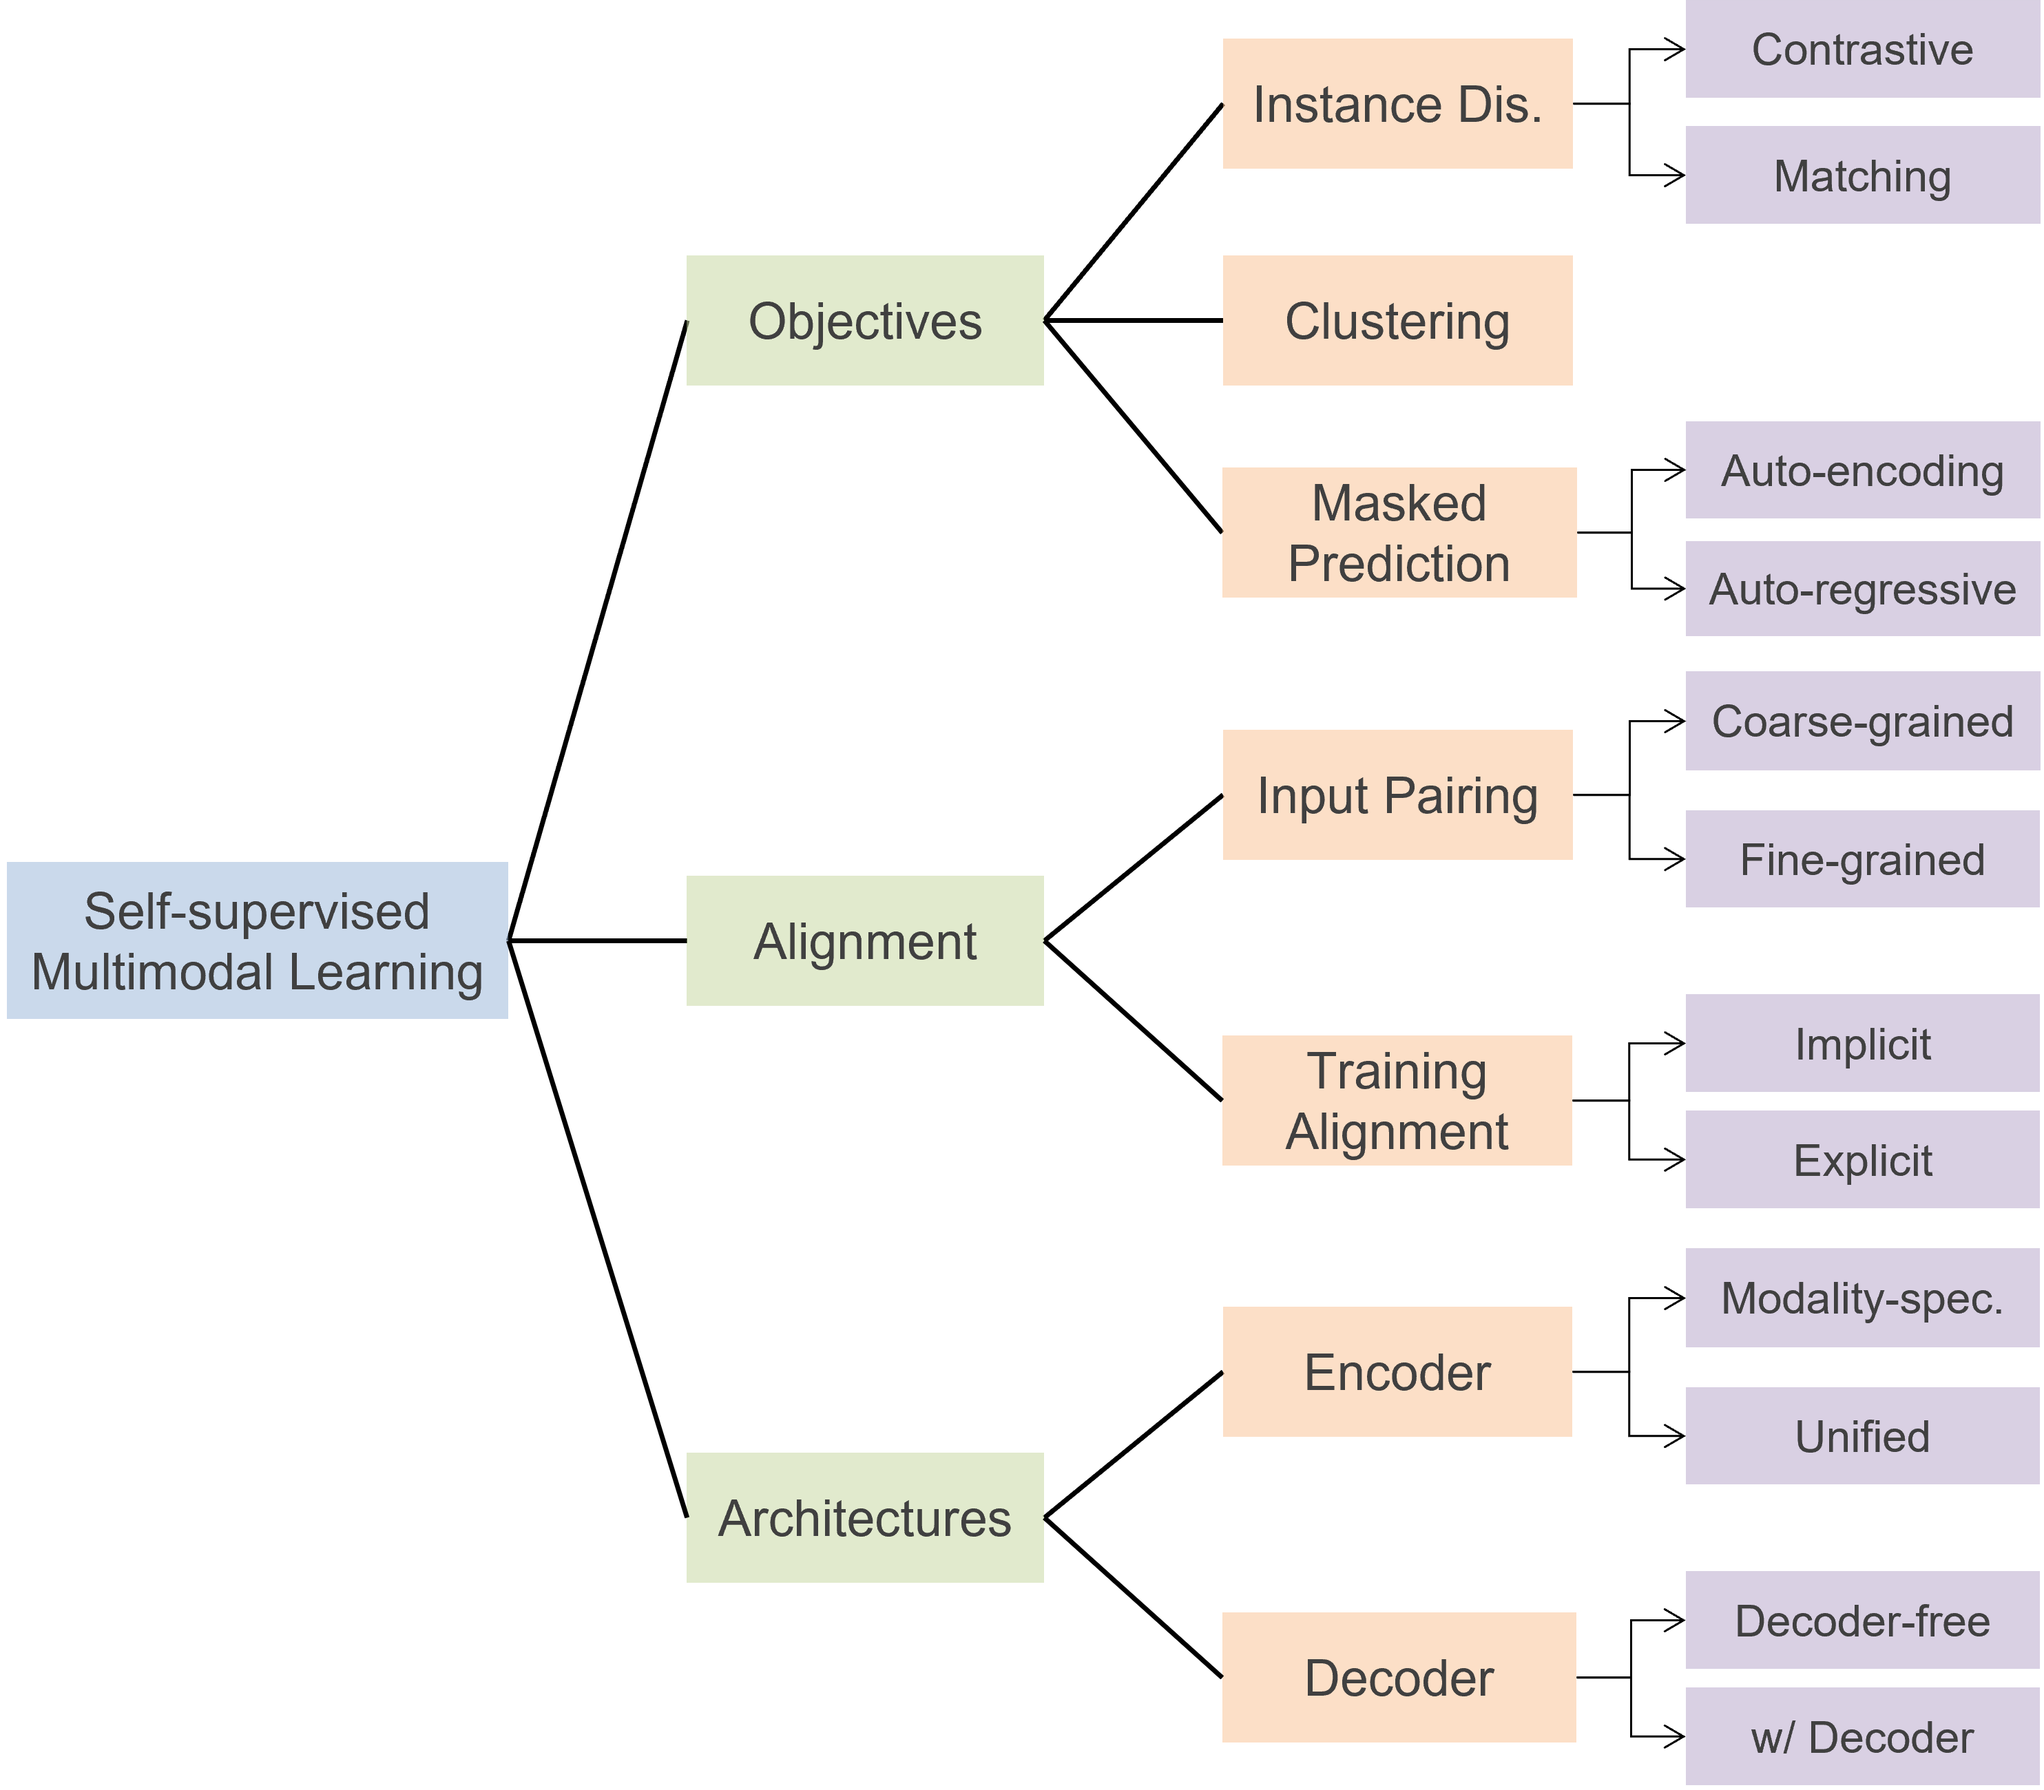
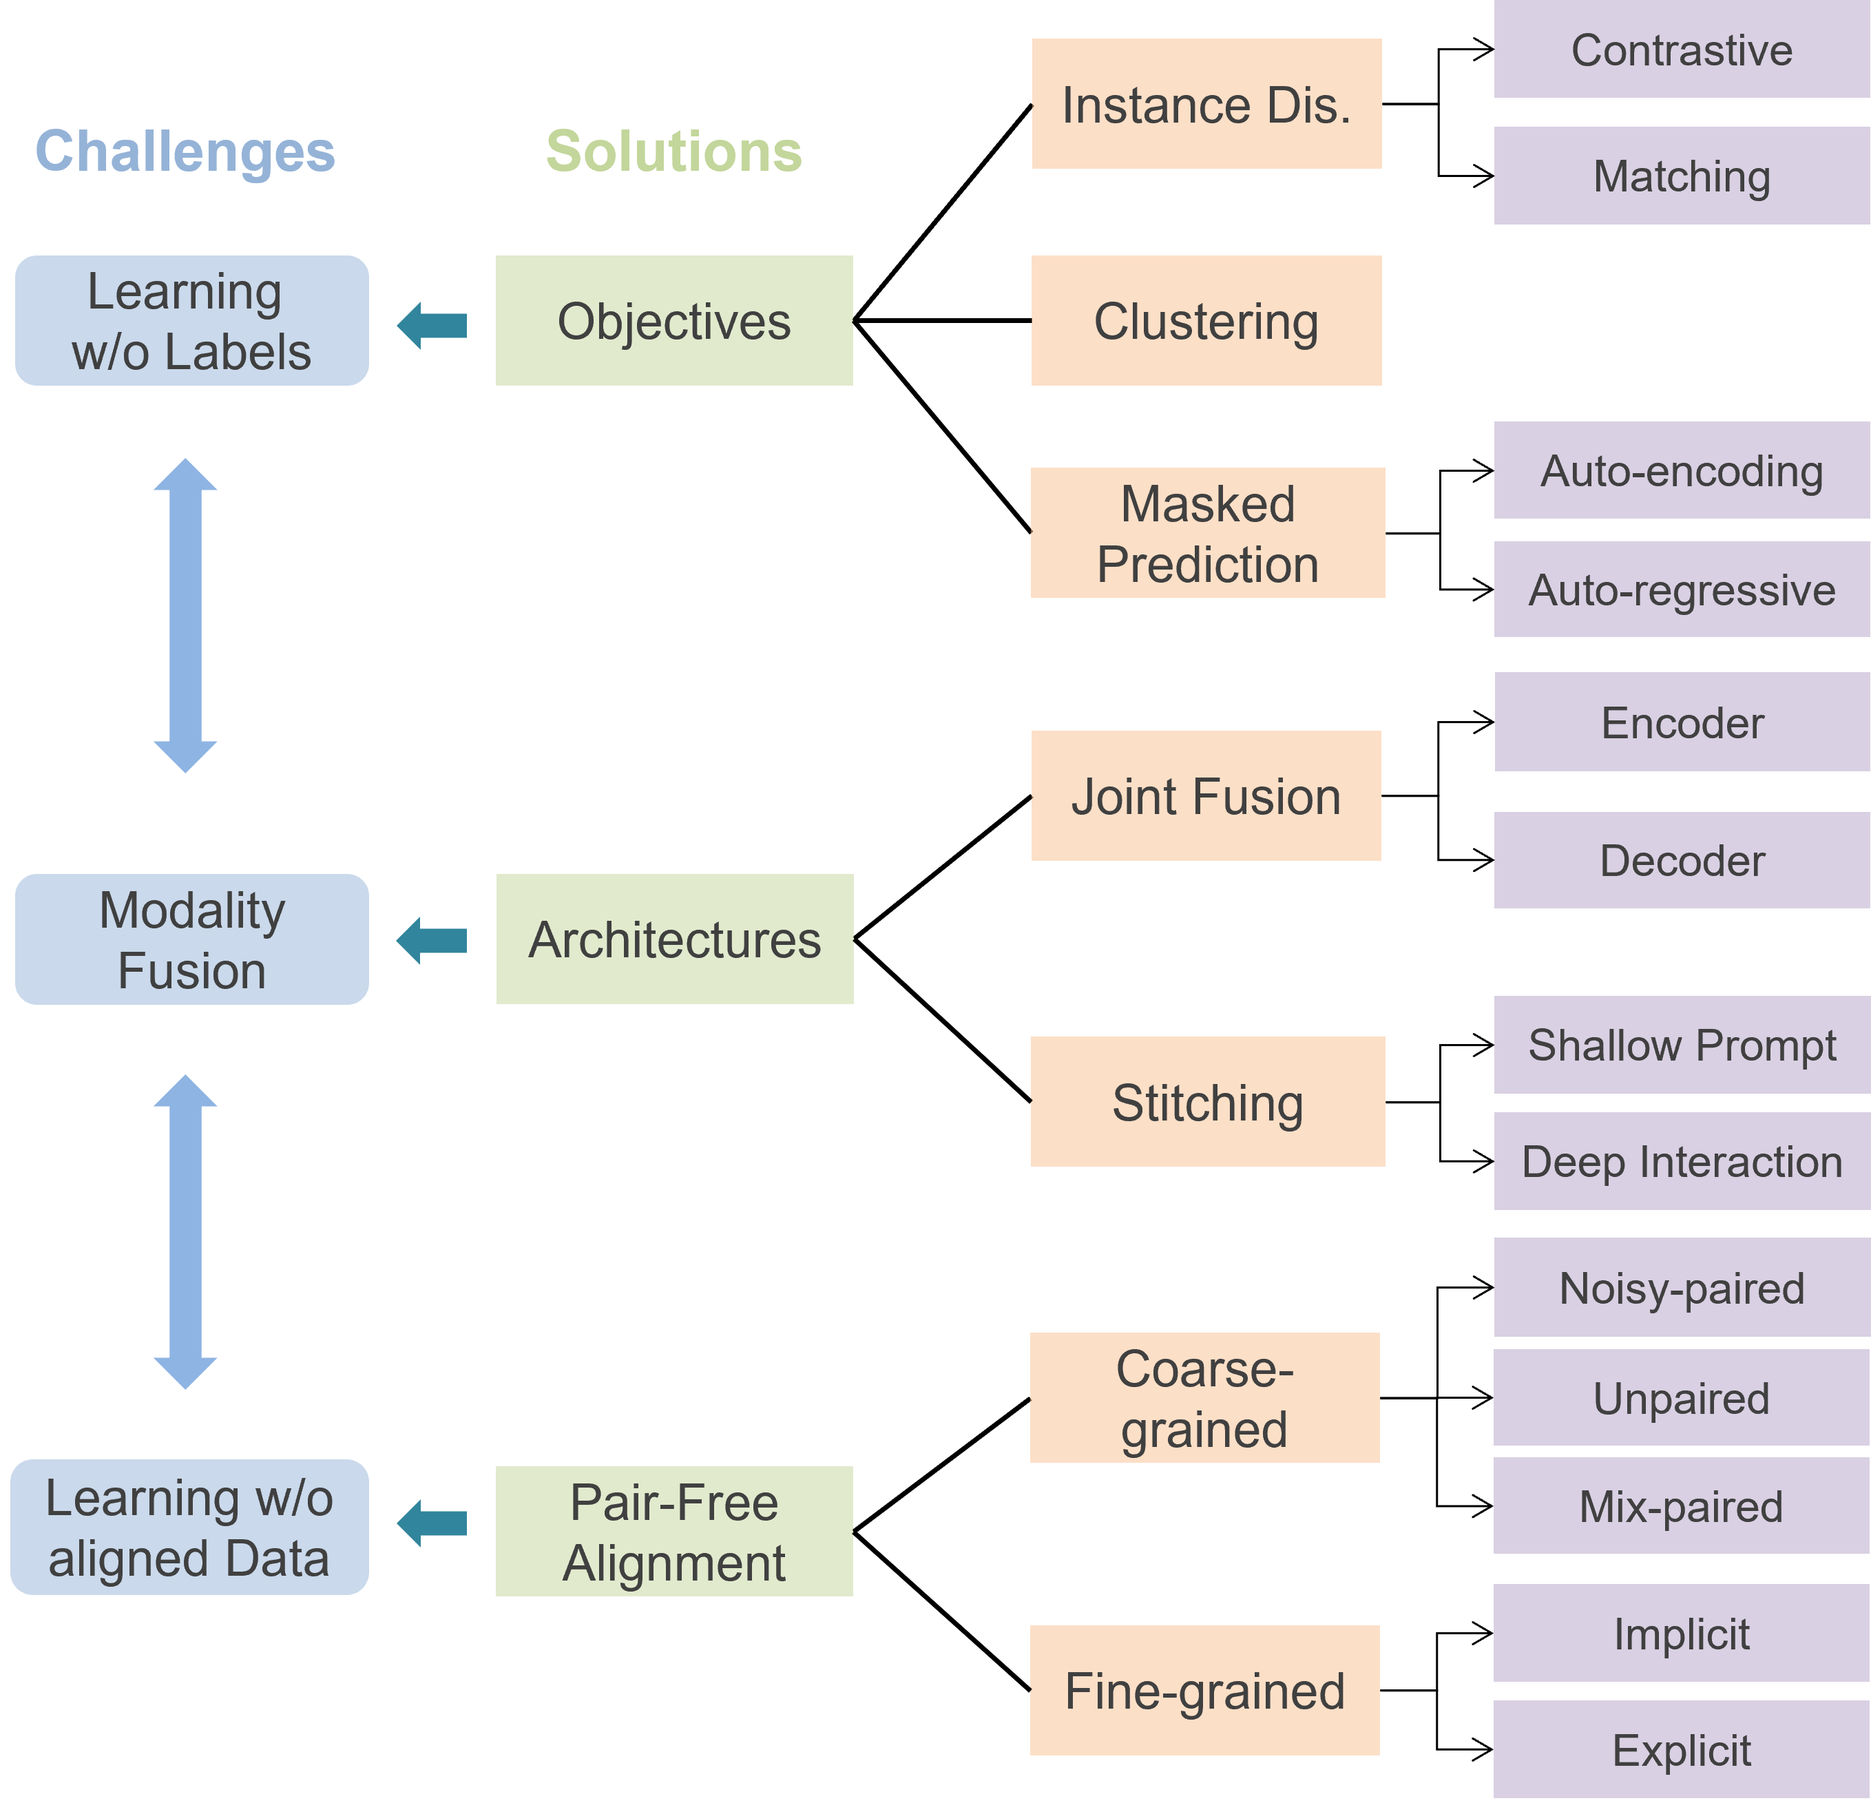
update taxonomy

diff --git a/README.md b/README.md
@@ -37,14 +37,13 @@ A curated list of awesome self-supervised multimodal learning resources. Check o
   - [Point Cloud Datasets](#point-cloud-datasets)
 
 ## Overview
-**Taxonomy**: In our survey, we provide a comprehensive review of the state-of-the-art in SSML, which we categorize along three orthogonal axes: objective functions, data alignment, and model architectures. These axes correspond to the inherent characteristics of self-supervised learning methods and multimodal data. Specifically, we classify training objectives into instance discrimination, clustering, and masked prediction categories. We also discuss multimodal input data pairing and alignment strategies during training. Finally, we review model architectures including the design of encoders, fusion modules, and decoders, which are essential components of SSML methods.
+**Taxonomy**: Multimodal learning, which aims to understand and analyze information from multiple modalities, has achieved substantial progress in the supervised regime in recent years. However, the heavy dependence on data paired with expensive human annotations impedes scaling up models. Meanwhile, given the availability of large-scale unannotated data in the wild, self-supervised learning has become an attractive strategy to alleviate the annotation bottleneck. Building on these two directions, self-supervised multimodal learning (SSML) provides ways to learn from raw multimodal data. In this survey, we provide a comprehensive review of the state-of-the-art in SSML, in which we elucidate three major challenges intrinsic to self-supervised learning with multimodal data: (1) learning representations from multimodal data without labels, (2) fusion of different modalities, and (3) learning with unaligned data. We then detail existing solutions to these challenges. Specifically, we consider (1) objectives for learning from multimodal unlabeled data via self-supervision, (2) model architectures from the perspective of different multimodal fusion strategies, and (3) pair-free learning strategies for coarse-grained and fine-grained alignment.
 
 <p align="center">
   <img src=figs/taxo.png width="500">
 </p>
 
-**Learning Paradigms**: An example illustrating the self-supervised vision and language pretraining prior to downstream supervised learning
-for visual question answering is shown below. (a) supervised multimodal learning, and (b) self-supervised multimodal learning: Top, self-supervised pretraining without manual annotations; Bottom, supervised fine-tuning or linear readout for downstream tasks.
+**Learning Paradigms**: An example illustrating the self-supervised vision and language pretraining prior to downstream supervised learning for visual question answering is shown below. (a) supervised multimodal learning, and (b) self-supervised multimodal learning: Top, self-supervised pretraining without manual annotations; Bottom, supervised fine-tuning or linear readout for downstream tasks.
 
 <p align="center">
   <img src="figs/paradigms.png" width="500">
